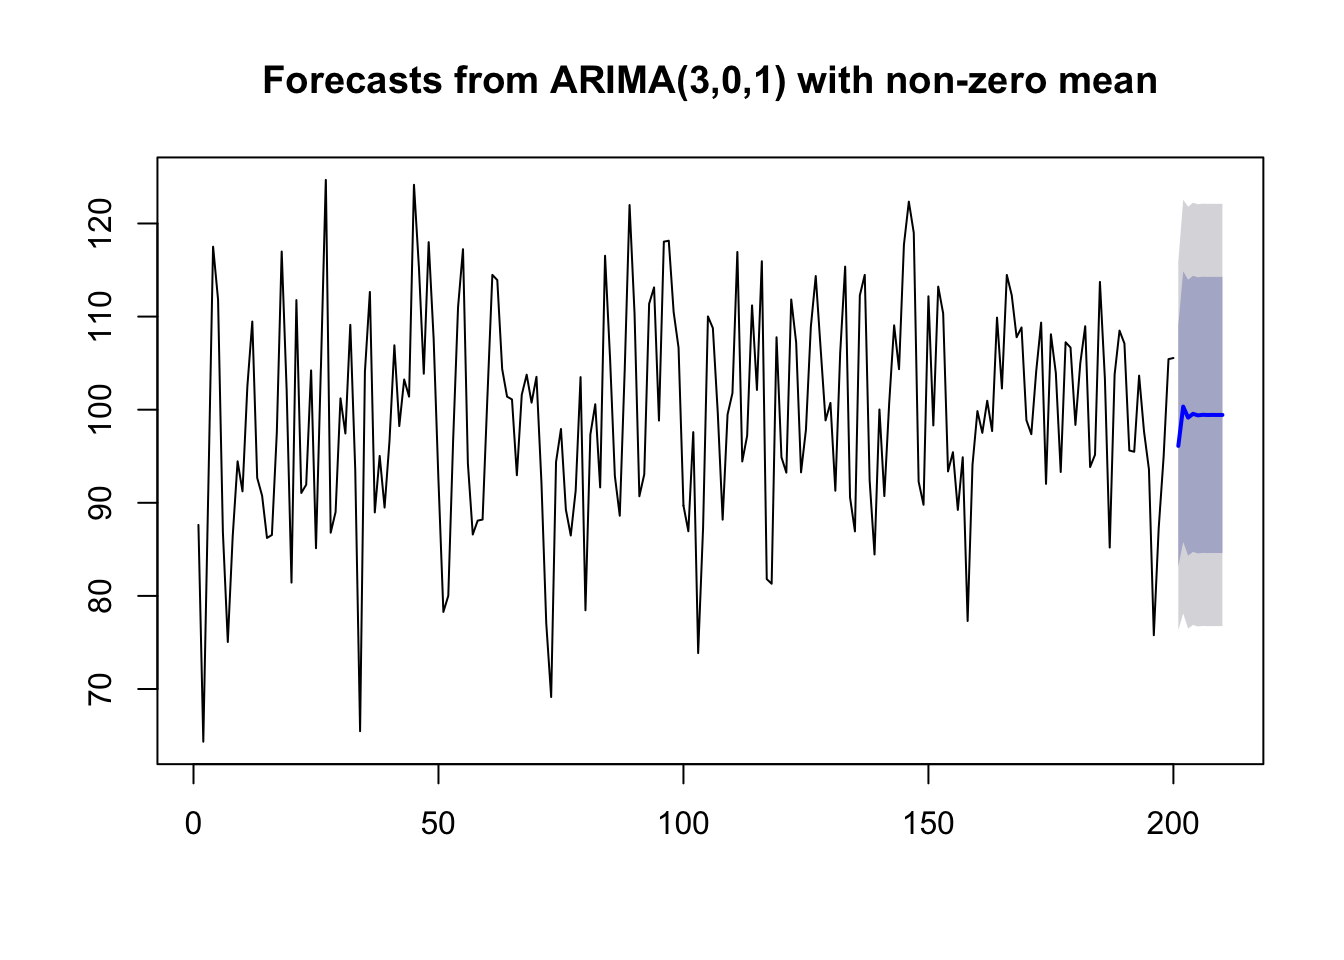
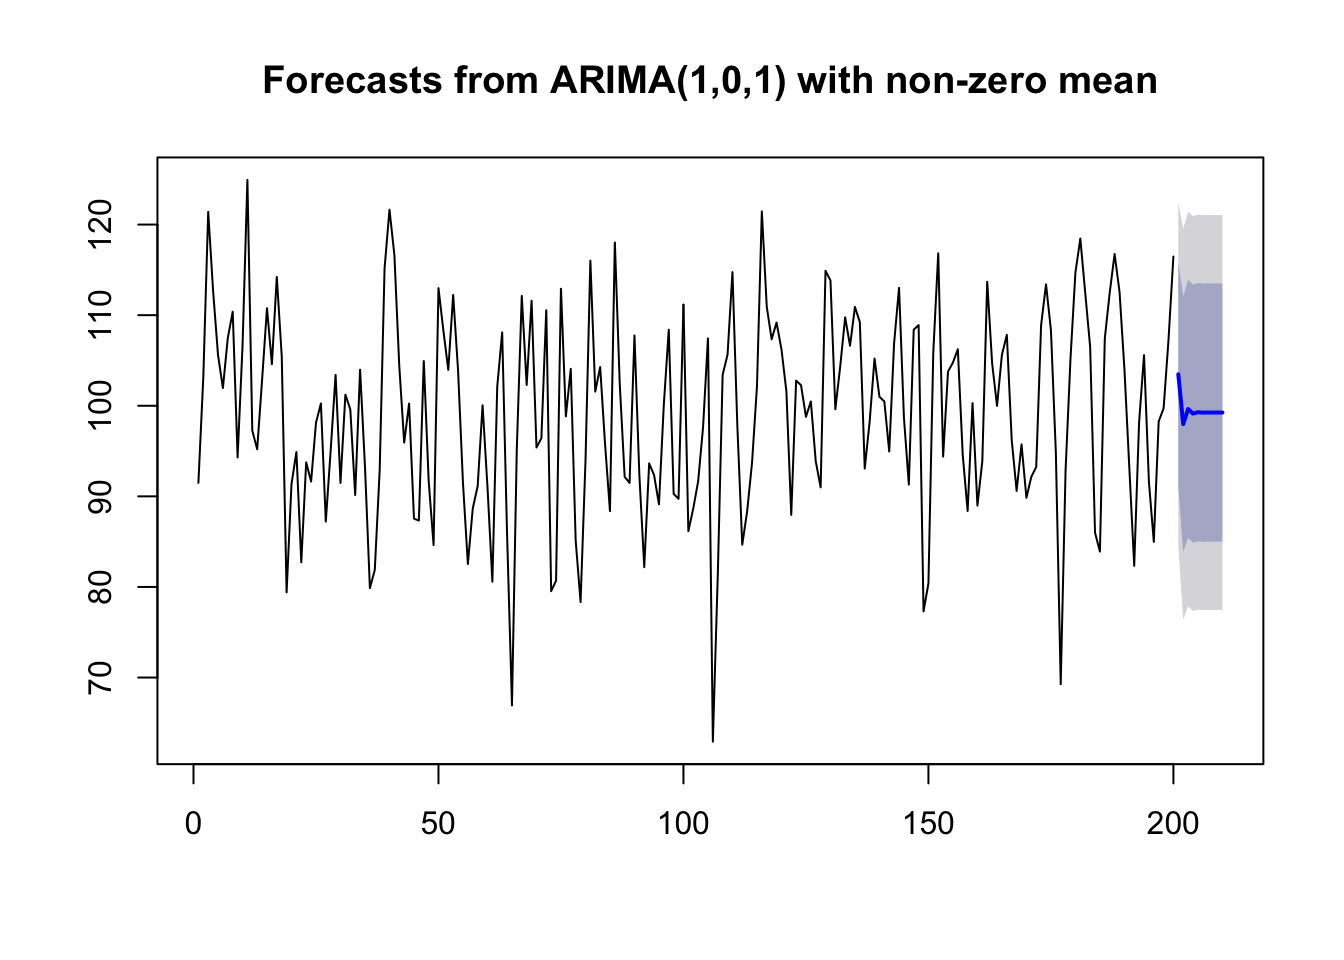
.

diff --git a/plots-med-forskellige-modeller.html b/plots-med-forskellige-modeller.html
@@ -186,51 +186,51 @@ code span.wa { color: #60a0b0; font-weight: bold; font-style: italic; } /* Warni
 <h1><span class="header-section-number">Kapitel 9</span> Plots med forskellige modeller</h1>
 <p><img src="bookdown-demo_files/figure-html/unnamed-chunk-18-1.png" width="672" /></p>
 <pre><code>## Series: ap1 
-## ARIMA(0,1,1) with drift 
+## ARIMA(0,1,1) 
 ## 
 ## Coefficients:
-##           ma1   drift
-##       -0.3415  1.9693
-## s.e.   0.1224  0.8528
+##           ma1
+##       -0.7061
+## s.e.   0.1256
 ## 
-## sigma^2 estimated as 85.43:  log likelihood=-181.18
-## AIC=368.36   AICc=368.88   BIC=374.1</code></pre>
+## sigma^2 estimated as 105:  log likelihood=-187.13
+## AIC=378.26   AICc=378.52   BIC=382.09</code></pre>
 <p>Kursen svinger omkring middelværdien.</p>
 <p><img src="bookdown-demo_files/figure-html/unnamed-chunk-19-1.png" width="672" /></p>
 <pre><code>## Series: ap2 
-## ARIMA(0,2,2) 
+## ARIMA(1,1,0) 
 ## 
 ## Coefficients:
-##           ma1      ma2
-##       -0.2012  -0.5117
-## s.e.   0.1403   0.1429
+##          ar1
+##       0.4037
+## s.e.  0.1292
 ## 
-## sigma^2 estimated as 108.7:  log likelihood=-183.78
-## AIC=373.55   AICc=374.08   BIC=379.23</code></pre>
+## sigma^2 estimated as 98.93:  log likelihood=-185.39
+## AIC=374.78   AICc=375.04   BIC=378.61</code></pre>
 <p><img src="bookdown-demo_files/figure-html/unnamed-chunk-20-1.png" width="672" /></p>
 <pre><code>## Series: ap3 
-## ARIMA(3,0,1) with non-zero mean 
+## ARIMA(1,0,1) with non-zero mean 
 ## 
 ## Coefficients:
-##           ar1      ar2      ar3     ma1     mean
-##       -0.3644  -0.0377  -0.0142  0.8744  99.4362
-## s.e.   0.0825   0.0789   0.0779  0.0427   0.9327
+##           ar1     ma1     mean
+##       -0.3027  0.8446  99.2526
+## s.e.   0.0990  0.0600   0.9596
 ## 
-## sigma^2 estimated as 102:  log likelihood=-744.17
-## AIC=1500.35   AICc=1500.78   BIC=1520.14</code></pre>
+## sigma^2 estimated as 93.45:  log likelihood=-736.4
+## AIC=1480.8   AICc=1481   BIC=1493.99</code></pre>
 <p>Vi kan også grafisk vise hvordan kursen vil udvikle sig med 80% og 95% konfidensbælter.</p>
 <div class="sourceCode" id="cb24"><pre class="sourceCode r"><code class="sourceCode r"><a class="sourceLine" id="cb24-1" data-line-number="1"><span class="kw">forecast</span>(<span class="kw">auto.arima</span>(ap3))</a></code></pre></div>
 <pre><code>##     Point Forecast    Lo 80    Hi 80    Lo 95    Hi 95
-## 201       96.11066 83.16861 109.0527 76.31750 115.9038
-## 202      100.33246 85.80473 114.8602 78.11421 122.5507
-## 203       99.14811 84.33509 113.9611 76.49356 121.8027
-## 204       99.55473 84.72869 114.3808 76.88025 122.2292
-## 205       99.39119 84.56364 114.2187 76.71441 122.0680
-## 206       99.45229 84.62444 114.2801 76.77505 122.1295
-## 207       99.43041 84.60252 114.2583 76.75310 122.1077
-## 208       99.43841 84.61051 114.2663 76.76109 122.1157
-## 209       99.43545 84.60755 114.2634 76.75813 122.1128
-## 210       99.43654 84.60863 114.2644 76.75922 122.1139</code></pre>
+## 201      103.47198 91.08316 115.8608 84.52491 122.4190
+## 202       97.97536 83.88432 112.0664 76.42498 119.5257
+## 203       99.63927 85.40243 113.8761 77.86590 121.4126
+## 204       99.13558 84.88545 113.3857 77.34188 120.9293
+## 205       99.28805 85.03670 113.5394 77.49250 121.0836
+## 206       99.24190 84.99044 113.4934 77.44617 121.0376
+## 207       99.25587 85.00440 113.5073 77.46013 121.0516
+## 208       99.25164 85.00017 113.5031 77.45589 121.0474
+## 209       99.25292 85.00145 113.5044 77.45717 121.0487
+## 210       99.25253 85.00106 113.5040 77.45679 121.0483</code></pre>
 <div class="sourceCode" id="cb26"><pre class="sourceCode r"><code class="sourceCode r"><a class="sourceLine" id="cb26-1" data-line-number="1"><span class="kw">plot</span>(<span class="kw">forecast</span>(<span class="kw">auto.arima</span>(ap3)))</a></code></pre></div>
 <p><img src="bookdown-demo_files/figure-html/unnamed-chunk-21-1.png" width="672" /></p>
 <p>#ARIMA af højere orden

diff --git a/kvantitative-metoder.html b/kvantitative-metoder.html
@@ -184,8 +184,11 @@ code span.wa { color: #60a0b0; font-weight: bold; font-style: italic; } /* Warni
             <section class="normal" id="section-">
 <div id="kvantitative-metoder" class="section level1">
 <h1><span class="header-section-number">Kapitel 4</span> Kvantitative metoder</h1>
-<iframe src="https://player.vimeo.com/video/234990675" width="1080" height="607.5" frameborder="0" webkitallowfullscreen mozallowfullscreen allowfullscreen>
+<style>.embed-container { position: relative; padding-bottom: 56.25%; height: 0; overflow: hidden; max-width: 100%; } .embed-container iframe, .embed-container object, .embed-container embed { position: absolute; top: 0; left: 0; width: 100%; height: 100%; }</style>
+<div class="embed-container">
+<iframe src="https://player.vimeo.com/video/234990675" frameborder="0" webkitAllowFullScreen mozallowfullscreen allowFullScreen>
 </iframe>
+</div>
 <p>Gennemgangen af tidsrækkeanalyse bygger meget på praktisk anvendelighed (dvs. vi vil gerne kunne forudsige kursudviklingen), vi vil springe let hen over teorien der kan være tung og er meget omfattende. Nedenstående links giver dog en indføring i den teoretiske del, som vi her ikke berører.</p>
 <p><a href="http://ucanalytics.com/blogs/arima-models-manufacturing-case-study-example-part-3/" class="uri">http://ucanalytics.com/blogs/arima-models-manufacturing-case-study-example-part-3/</a></p>
 <p><a href="http://ucanalytics.com/blogs/step-by-step-graphic-guide-to-forecasting-through-arima-modeling-in-r-manufacturing-case-study-example/" class="uri">http://ucanalytics.com/blogs/step-by-step-graphic-guide-to-forecasting-through-arima-modeling-in-r-manufacturing-case-study-example/</a></p>
